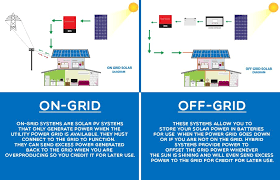
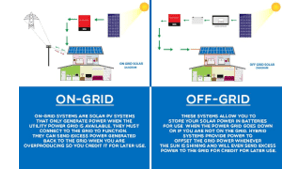
added resized images

diff --git a/service-controlpanel.html b/service-controlpanel.html
@@ -234,23 +234,20 @@
                 <p>An APFC (Automatic Power Factor Correction) panel is an electrical control panel used to monitor and improve the power factor of electrical loads.</p>
                   <p>The power factor is a measure of how effectively electrical power is utilized by a system. It represents the ratio of real power (kW) to apparent power (kVA) in an AC electrical system.</p>
                   <p>The APFC panel consists of power factor correction capacitors that are switched in or out based on the load requirements to maintain a desired power factor.</p>
-                  <p>It helps in optimizing power consumption, reducing electricity bills, and improving the overall efficiency of the electrical system.</p>
-                  <p>The APFC panel continuously monitors the power factor and automatically controls the capacitors to maintain a near unity power factor.</p>
             </div>
             <div class="servicecard">
                 <img src="Images/controlpanel/Eaton-MCC-Feature.webp" alt="">
                 <h2>MCC (Motor Control Center) and PCC (Power Control Center) Panels</h2>
                 <p>MCC (Motor Control Center) and PCC (Power Control Center) panels are electrical control panels used for motor control and power distribution, respectively</p>
                 <p>MCC panels are used to control and monitor electric motors in industrial processes. They contain motor starters, contactors, overload relays, and other protective devices for motor control and protection.</p>
-                <p>PCC panels are used to distribute and control power in large-scale industrial facilities. They receive power from the main power source and distribute it to various loads through circuit breakers, switchgear, and protective devices.</p>
+                <p>PCC panels are used to distribute and control power in large-scale industrial facilities.</p>
             </div>
             <div class="servicecard">
                 <img src="Images/controlpanel/plc_new.jpg" alt="">
-                <h2>PLC (Programmable Logic Controller), SCADA (Supervisory Control and Data Acquisition), HMI (Human-Machine Interface) Control Panel</h2>
-                <p>PLC, SCADA, and HMI control panels are used in industrial automation systems to monitor and control processes.</p>
+                <h2>PLC (Programmable Logic Controller)</h2>
                 <p>PLC is a digital computer-based control system that uses programmable memory to store instructions and perform control functions. It is used for automating industrial processes, such as assembly lines, machinery control, and manufacturing systems.</p>
                 <p>SCADA is a system that collects and analyzes real-time data from various sensors and devices. It provides control and monitoring capabilities for large-scale processes or distributed systems.</p>
-                <p>HMI refers to the graphical user interface through which an operator interacts with the automation system. It allows users to monitor process variables, control devices, and receive alarms or notifications.</p>
+                <p>HMI refers to the graphical user interface through which an operator interacts with the automation system.</p>
             </div>
         </div>
       </div>
@@ -263,8 +260,8 @@
                 <h2>Drive Panels</h2>
                 <p>Drive panels, also known as Variable Frequency Drive (VFD) panels or Inverter panels, are used to control the speed and torque of electric motors.</p>
                 <p>Drive panels consist of VFDs, which convert the incoming AC power into variable frequency and voltage output to control the speed and direction of motors.</p>
-                <p>These panels find applications in various industries, including HVAC systems, pumps, fans, conveyor belts, and other motor-driven equipment.</p>
-                <p>They offer energy savings, precise control, and motor protection features such as overload protection, phase loss protection, and over/under voltage protection.</p>
+                <p>These panels find applications in various industries, including HVAC systems, pumps, fans, conveyor belts, and other motor-driven equipment.
+                They offer energy savings, precise control, and motor protection features such as overload protection.</p>
             </div>
 
             <div class="servicecard">
@@ -273,7 +270,6 @@
                 <p>An AHF (Active Harmonic Filter) panel is used to mitigate harmonics in electrical systems caused by nonlinear loads.</p>
                 <p>Harmonics are undesirable distortions in the electrical waveform that can cause equipment malfunction, overheating, and power quality issues.</p>
                 <p>The AHF panel actively monitors the harmonic currents and generates equal and opposite currents to cancel out the harmonics, thus reducing their impact on the system.</p>
-                <p>It helps in complying with power quality standards, minimizing voltage distortion, and improving the efficiency of the electrical system.</p>
             </div>
 
 
@@ -281,7 +277,7 @@
                 <img src="Images/controlpanel/distribution-panel.jpg" alt="">
                 <h2>Distribution Panel</h2>
                 <p>A distribution panel, also known as a distribution board or breaker panel, is an electrical panel that receives power from the main supply and distributes it to various sub-circuits or loads within a building or facility.</p>
-                <p>Distribution panels contain circuit break</p>
+                <p>Distribution panels contain circuit break.Distribution panel is a module of an electricity supply system which divides an electrical power feed into subsidiary circuits, while providing a protective fuse or circuit breaker for each circuit, in a common enclosure. Main switch and residual current Breakers with overcurrent protection will also be incorporated.</p>
             </div>
         </div>
       </div>

diff --git a/about.html b/about.html
@@ -324,7 +324,8 @@
                     <div class="panel pricing-table">
         
                         <div class="pricing-plan">
-                            <img src="https://s22.postimg.cc/8mv5gn7w1/paper-plane.png" alt="" class="pricing-img">
+                            <svg xmlns="http://www.w3.org/2000/svg" height="10em" viewBox="0 0 512 512"><!--! Font Awesome Free 6.4.0 by @fontawesome - https://fontawesome.com License - https://fontawesome.com/license (Commercial License) Copyright 2023 Fonticons, Inc. --><path d="M448 256A192 192 0 1 0 64 256a192 192 0 1 0 384 0zM0 256a256 256 0 1 1 512 0A256 256 0 1 1 0 256zm256 80a80 80 0 1 0 0-160 80 80 0 1 0 0 160zm0-224a144 144 0 1 1 0 288 144 144 0 1 1 0-288zM224 256a32 32 0 1 1 64 0 32 32 0 1 1 -64 0z"/></svg>
+                            <!-- <img src="https://s22.postimg.cc/8mv5gn7w1/paper-plane.png" alt="" class="pricing-img"> -->
                             <h2 class="pricing-header">Mission</h2>
                             <ul class="pricing-features">
                                 <li class="pricing-features-item">Transforming Lives by Building A Better World</li>
@@ -333,7 +334,8 @@
                         </div>
         
                         <div class="pricing-plan">
-                            <img src="https://s28.postimg.cc/ju5bnc3x9/plane.png" alt="" class="pricing-img">
+                            <!-- <img src="https://s28.postimg.cc/ju5bnc3x9/plane.png" alt="" class="pricing-img"> -->
+                            <svg xmlns="http://www.w3.org/2000/svg" height="10em" viewBox="0 0 576 512"><!--! Font Awesome Free 6.4.0 by @fontawesome - https://fontawesome.com License - https://fontawesome.com/license (Commercial License) Copyright 2023 Fonticons, Inc. --><path d="M288 32c-80.8 0-145.5 36.8-192.6 80.6C48.6 156 17.3 208 2.5 243.7c-3.3 7.9-3.3 16.7 0 24.6C17.3 304 48.6 356 95.4 399.4C142.5 443.2 207.2 480 288 480s145.5-36.8 192.6-80.6c46.8-43.5 78.1-95.4 93-131.1c3.3-7.9 3.3-16.7 0-24.6c-14.9-35.7-46.2-87.7-93-131.1C433.5 68.8 368.8 32 288 32zM144 256a144 144 0 1 1 288 0 144 144 0 1 1 -288 0zm144-64c0 35.3-28.7 64-64 64c-7.1 0-13.9-1.2-20.3-3.3c-5.5-1.8-11.9 1.6-11.7 7.4c.3 6.9 1.3 13.8 3.2 20.7c13.7 51.2 66.4 81.6 117.6 67.9s81.6-66.4 67.9-117.6c-11.1-41.5-47.8-69.4-88.6-71.1c-5.8-.2-9.2 6.1-7.4 11.7c2.1 6.4 3.3 13.2 3.3 20.3z"/></svg>
                             <h2 class="pricing-header">Vision</h2>
                             <ul class="pricing-features">
                                 <li class="pricing-features-item">Delivering Predictable and Sustainable Projects through Innovation & Technology</li>
@@ -349,8 +351,9 @@
                 <div class="container">
                     <div class="panel pricing-table">
                         <div class="pricing-plan">
-                            <img src="https://s28.postimg.cc/ju5bnc3x9/plane.png" alt="" class="pricing-img">
-                            <h2 class="pricing-header">Vision</h2>
+                            <!-- <img src="https://s28.postimg.cc/ju5bnc3x9/plane.png" alt="" class="pricing-img"> -->
+                            <svg xmlns="http://www.w3.org/2000/svg" height="10em" viewBox="0 0 640 512"><!--! Font Awesome Free 6.4.0 by @fontawesome - https://fontawesome.com License - https://fontawesome.com/license (Commercial License) Copyright 2023 Fonticons, Inc. --><style>svg{fill:#32C36C}</style><path d="M323.4 85.2l-96.8 78.4c-16.1 13-19.2 36.4-7 53.1c12.9 17.8 38 21.3 55.3 7.8l99.3-77.2c7-5.4 17-4.2 22.5 2.8s4.2 17-2.8 22.5l-20.9 16.2L512 316.8V128h-.7l-3.9-2.5L434.8 79c-15.3-9.8-33.2-15-51.4-15c-21.8 0-43 7.5-60 21.2zm22.8 124.4l-51.7 40.2C263 274.4 217.3 268 193.7 235.6c-22.2-30.5-16.6-73.1 12.7-96.8l83.2-67.3c-11.6-4.9-24.1-7.4-36.8-7.4C234 64 215.7 69.6 200 80l-72 48V352h28.2l91.4 83.4c19.6 17.9 49.9 16.5 67.8-3.1c5.5-6.1 9.2-13.2 11.1-20.6l17 15.6c19.5 17.9 49.9 16.6 67.8-2.9c4.5-4.9 7.8-10.6 9.9-16.5c19.4 13 45.8 10.3 62.1-7.5c17.9-19.5 16.6-49.9-2.9-67.8l-134.2-123zM16 128c-8.8 0-16 7.2-16 16V352c0 17.7 14.3 32 32 32H64c17.7 0 32-14.3 32-32V128H16zM48 320a16 16 0 1 1 0 32 16 16 0 1 1 0-32zM544 128V352c0 17.7 14.3 32 32 32h32c17.7 0 32-14.3 32-32V144c0-8.8-7.2-16-16-16H544zm32 208a16 16 0 1 1 32 0 16 16 0 1 1 -32 0z"/></svg>
+                            <h2 class="pricing-header">Values</h2>
                             <ul class="pricing-features">
                                 <li class="pricing-features-item">Safety and Integrity First</li>
                                 <li class="pricing-features-item">Accountability</li>

diff --git a/service-led.html b/service-led.html
@@ -265,14 +265,14 @@
             <div class="servicecard">
                 <img src="Images/ledfloodlights.jpeg" alt="">
                 <h2>LED Flood Lights</h2>
-                <p>When it comes to illuminating large outdoor areas, our LED floodlights are the perfect choice. These powerful lights provide high-intensity illumination for stadiums, sports fields, parking lots, and architectural highlights. With their robust construction and weather-resistant features, our floodlights ensure reliable performance even in harsh conditions...</p>
+                <p>When it comes to illuminating large outdoor areas, our LED floodlights are the perfect choice. These powerful lights provide high-intensity illumination for stadiums, sports fields, parking lots, and architectural highlights. With their robust construction and weather-resistant features.</p>
             </div>
 
 
             <div class="servicecard">
                 <img src="Images/underwaterlights.jpeg" alt="">
                 <h2>LED Underwater Lights</h2>
-                <p>Create a stunning visual experience with our LED underwater and decorative lights. These versatile lighting solutions are perfect for enhancing the beauty of fountains, swimming pools, ponds, and other water features. With their vibrant colors and precise control options, our underwater lights can transform any aquatic space into a captivating spectacle. Our decorative lights are equally impressive, adding a touch of elegance and ambiance to gardens, parks, and architectural structures...</p>
+                <p>Create a stunning visual experience with our LED underwater and decorative lights. These versatile lighting solutions are perfect for enhancing the beauty of fountains, swimming pools, ponds, and other water features.</p>
             </div>
         </div>
       </div>
@@ -283,7 +283,7 @@
             <div class="servicecard">
                 <img src="Images/solarlights.jpeg" alt="">
                 <h2>LED Solar High-Mast Lights</h2>
-                <p>Harness the power of the sun with our LED solar high-mast lights. These innovative lighting solutions are ideal for illuminating large outdoor areas where access to the electrical grid may be limited. By utilizing solar energy, these lights provide sustainable and cost-effective illumination for highways, airports, ports, industrial sites, and other expansive spaces. Our solar high-mast lights offer high-performance lighting with minimal maintenance requirements, making them a smart choice for long-lasting and eco-friendly lighting solutions...</p>
+                <p>Harness the power of the sun with our LED solar high-mast lights. These innovative lighting solutions are ideal for illuminating large outdoor areas where access to the electrical grid may be limited. By utilizing solar energy, these lights provide sustainable and cost-effective illumination for highways, airports, ports, industrial sites, and other expansive spaces. Our solar high-mast lights offer high-performance lighting with minimal maintenance requirements, making them a smart choice for long-lasting.</p>
             </div>
 
             <div class="servicecard">
@@ -296,7 +296,7 @@
             <div class="servicecard">
                 <img src="Images/outdoorlights.jpeg" alt="">
                 <h2>Outdoor & Indoor Lights</h2>
-                <p>In addition to our specialized LED lighting solutions, we offer a comprehensive range of outdoor and indoor lights to cater to all your illumination needs. Whether you require lighting for residential, commercial, or industrial applications, we have a vast selection of products to choose from. Our inventory includes but is not limited to wall lights, garden lights, ceiling lights, pendant lights, track lights, and panel lights. We can also customize lighting designs based on your specific requirements to create a truly personalized lighting experience...</p>
+                <p>In addition to our specialized LED lighting solutions, we offer a comprehensive range of outdoor and indoor lights to cater to all your illumination needs. Whether you require lighting for residential, commercial, or industrial applications, we have a vast selection of products to choose from. Our inventory includes but is not limited to wall lights, garden lights, ceiling lights, pendant lights, track lights, and panel lights. We can also customize lighting design.</p>
             </div>
         </div>
       </div>

diff --git a/service-solar.html b/service-solar.html
@@ -191,7 +191,7 @@
                 <p>Experience the benefits of an eco-friendly and cost-effective solution for heating your water.</p>
             </div>
             <div class="servicecard">
-                <img src="Images/solarpowerplant.jpeg" alt="">
+                <img src="Images/solarpowerplant.jpg" alt="">
                 <h2>Solar Power Plant</h2>
                 <p>Harness the power of the sun to generate clean and sustainable electricity.</p>
             </div>
@@ -206,17 +206,17 @@
       <div class="servicecontainer">
         <div class="servicecontener-content">
             <div class="servicecard">
-                <img src="Images/waterpump.jpeg" alt="">
+                <img src="Images/waterpump.jpg" alt="">
                 <h2>Solar Water Pump</h2>
                 <p>Efficiently meet your water pumping requirements with our solar water pumps.</p>
             </div>
             <div class="servicecard">
-                <img src="Images/solarnetmeater.jpeg" alt="">
+                <img src="Images/solarnetmeater.jpg" alt="">
                 <h2>Net Metering & Liasening</h2>
                 <p>We assist you with the net metering process, enabling you to efficiently feed excess electricity back into the grid.</p>
             </div>
             <div class="servicecard">
-                <img src="Images/sunflowertracking.jpeg" alt="">
+                <img src="Images/sunflowertracking.jpg" alt="">
                 <h2>Sunflowers Tracking System</h2>
                 <p>Maximize the performance of your solar panels with our innovative sunflowers tracking system.</p>
             </div>

diff --git a/css/civil.css b/css/civil.css
@@ -11,10 +11,12 @@
   }
 
   section {
-    color: #fff;
+    color: #000;
+    font-weight: 700;
     margin-bottom: 30px;
+    border: 2px solid #000;
     padding: 40px 0;
-    background-color: #719a31;
+    /* background-color: #f6f7f7; */
     box-shadow:
       0 2px 4px rgba(0, 0, 0, 0.1),
       0 8px 16px rgba(0, 0, 0, 0.1),
@@ -64,7 +66,7 @@
   height: 300px; */
   width: 50%;
   height: 40%;
-  background-color: #ccc;
+  background-color: transparent;
   margin: 1em auto;
   display: flex;
   justify-content: center;
@@ -73,7 +75,7 @@
   }
 
   img{
-    height: 100%;
-    width: 100%;
+    height: 25rem;
+    width: 35rem;
   }
 

diff --git a/css/custom.css b/css/custom.css
@@ -141,8 +141,8 @@
 
 
 .servicecontener-content .servicecard img{
-  width: 100%;
-  height: auto;
+  width: 25rem;
+  height: 25rem;
 }
 
 .servicecontener-content .servicecard h2{
